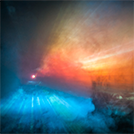
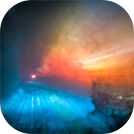
Demo project updates

diff --git a/LNPopupControllerExample/LNPopupControllerExample/TestingScene/DemoPopupContentViewController.m b/LNPopupControllerExample/LNPopupControllerExample/TestingScene/DemoPopupContentViewController.m
@@ -43,7 +43,14 @@ void LNApplyTitleWithSettings(UIViewController* self)
 	
 	if([NSUserDefaults.settingDefaults boolForKey:PopupSettingDisableDemoSceneColors] == NO)
 	{
-		self.popupItem.image = [UIImage imageNamed:@"genre17"];
+		if([NSUserDefaults.settingDefaults integerForKey:PopupSettingTransitionType] == 2)
+		{
+			self.popupItem.image = [UIImage imageNamed:@"genre17"];
+		}
+		else
+		{
+			self.popupItem.image = [UIImage imageNamed:@"genre12"];
+		}
 	}
 	else
 	{
